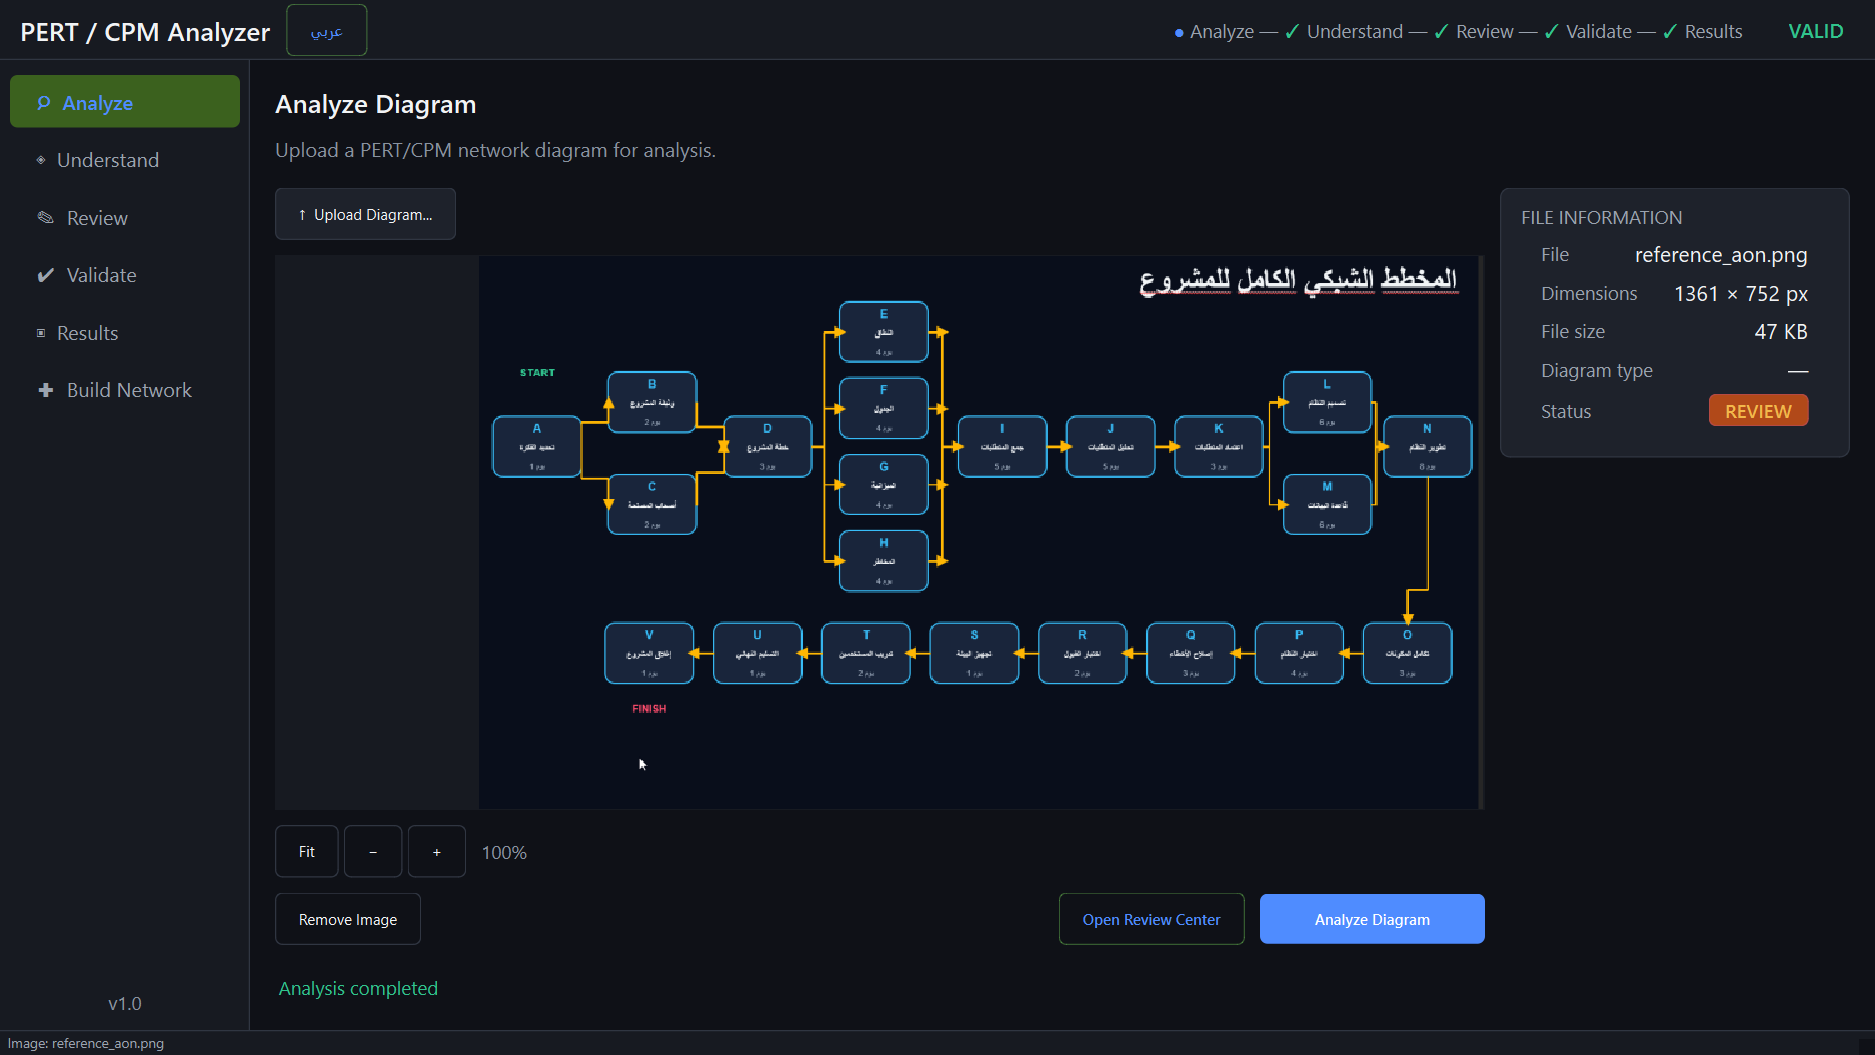
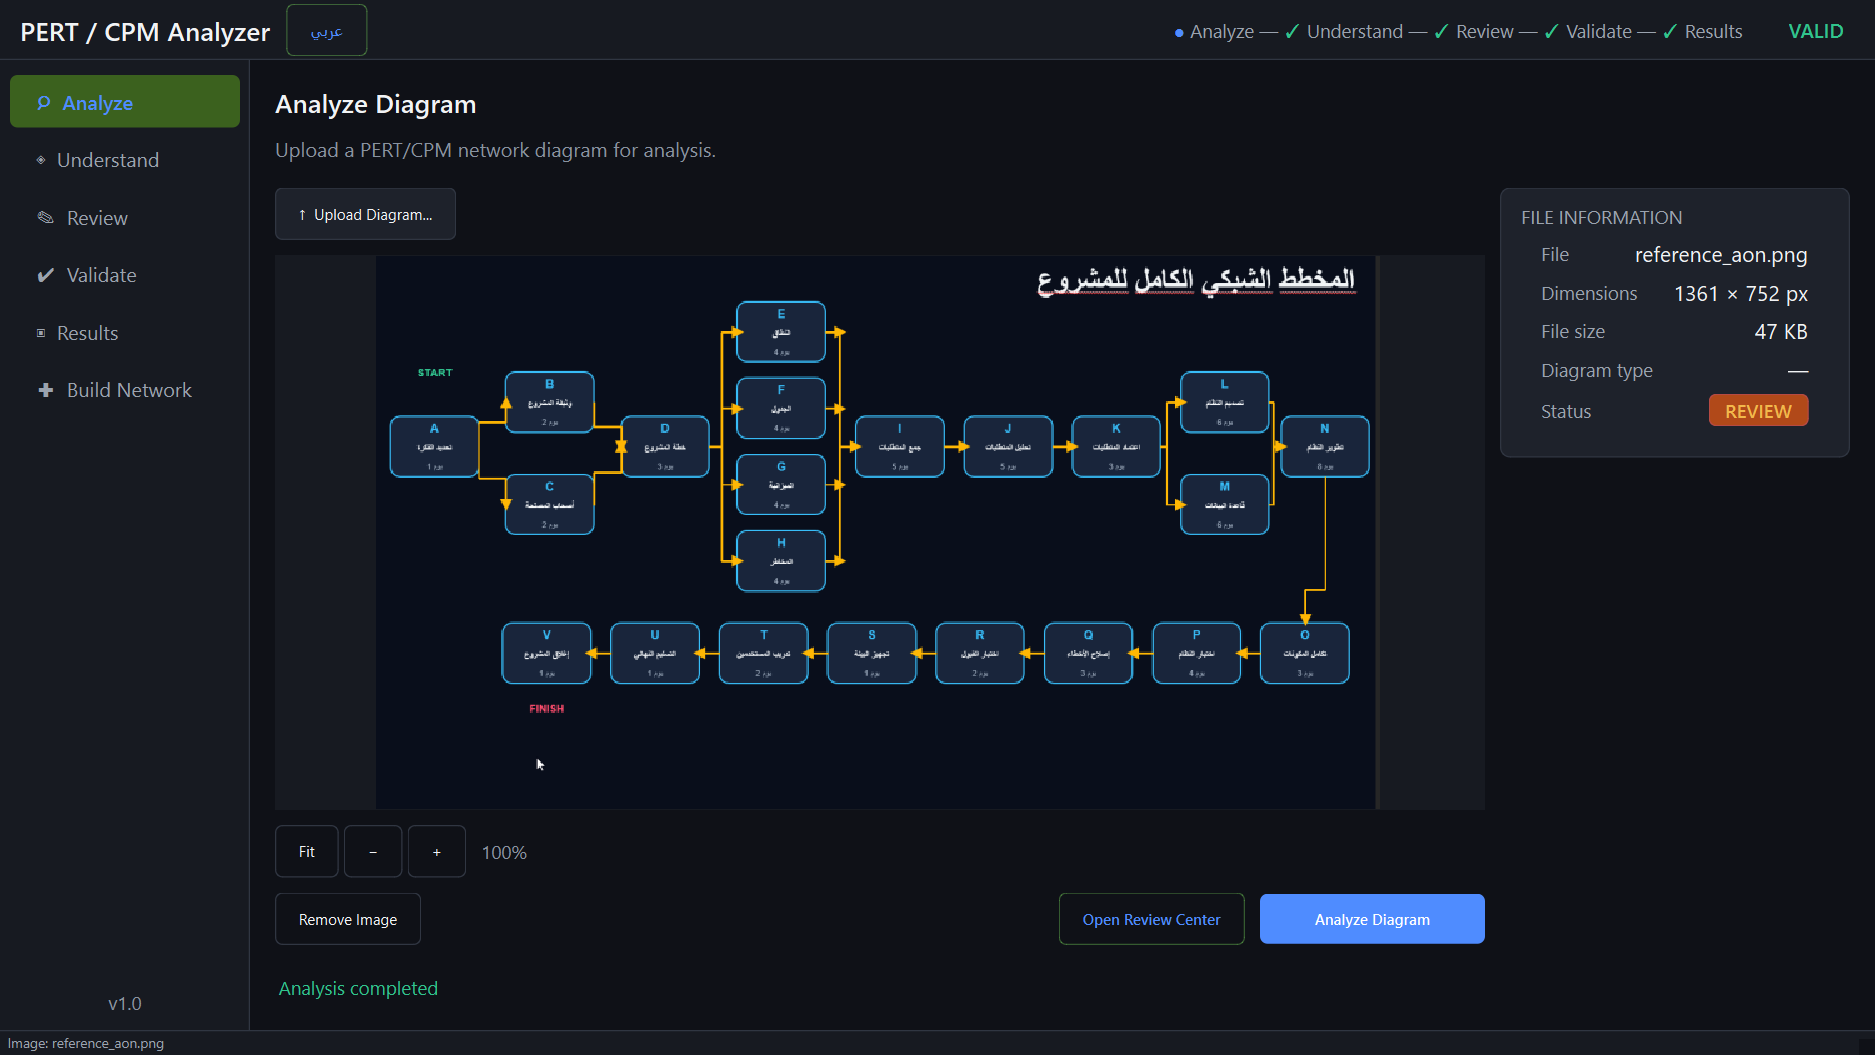
batch A-3: analysis stays on its page (no auto-jump) + image truly centred (clamp double-centre fix, pins updated)

Changed region(s): [[0.1856, 0.273, 0.8043, 0.6976], [0.5568, 0.2427, 0.7733, 0.3033], [0.3403, 0.6673, 0.3712, 0.6976]]

diff --git a/tests/gui/test_gui_state_flow.py b/tests/gui/test_gui_state_flow.py
@@ -1,5 +1,5 @@
 """
-Tests for session updates, auto-navigation, and responsiveness.
+Tests for session updates, stay-on-analyze navigation, and responsiveness.
 """
 
 from __future__ import annotations
@@ -52,9 +52,10 @@ def test_session_updates_after_analysis(
     assert window._session.review_summary["duration_reviews_pending"] == 1
 
 
-def test_auto_nav_to_review_when_review_items(
+def test_user_stays_on_analyze_when_review_items(
     window: MainWindow, tmp_image: str, qapp: "QApplication"  # noqa: F821
 ) -> None:
+    """Analysis must NOT auto-jump: the user stays to watch the machine."""
     wf = FakeWorkflow(pa=1, pd=0, pdr=0, review_required=True)
     window._backend = FakeBackend(workflow=wf)
     window._analysis_page.load_image(tmp_image)
@@ -64,12 +65,14 @@ def test_auto_nav_to_review_when_review_items(
         qapp.processEvents()
         time.sleep(0.01)
 
-    assert window._stack.currentIndex() == NavDestination.REVIEW.value
+    assert window._stack.currentIndex() == NavDestination.ANALYZE.value
+    assert window._session.state == AppState.REVIEW_REQUIRED
 
 
-def test_auto_nav_to_validation_when_no_review_items(
+def test_user_stays_on_analyze_when_no_review_items(
     window: MainWindow, tmp_image: str, qapp: "QApplication"  # noqa: F821
 ) -> None:
+    """Same stay-on-analyze rule when validation is the next step."""
     wf = FakeWorkflow(pa=0, pd=0, pdr=0, review_required=False)
     window._backend = FakeBackend(workflow=wf)
     window._analysis_page.load_image(tmp_image)
@@ -79,7 +82,7 @@ def test_auto_nav_to_validation_when_no_review_items(
         qapp.processEvents()
         time.sleep(0.01)
 
-    assert window._stack.currentIndex() == NavDestination.VALIDATE.value
+    assert window._stack.currentIndex() == NavDestination.ANALYZE.value
     assert window._session.state == AppState.VALIDATION_REQUIRED
 
 

diff --git a/pert_analyzer/gui/pages/analysis_page.py b/pert_analyzer/gui/pages/analysis_page.py
@@ -334,14 +334,21 @@ class ImageView(QLabel):
             return
         view_w, view_h = max(1, self.width()), max(1, self.height())
         disp_w, disp_h = self._content_size()
+        # The paint formula already centres fitting content:
+        #   x = (view - disp) / 2 + pan
+        # so when the image fits, pan must sit at 0.  Forcing pan to
+        # (view - disp) / 2 here double-centres and shoves the image
+        # toward one edge (the off-centre bug on Analyze).
         slip_x = disp_w - view_w
         slip_y = disp_h - view_h
-        lo_x, hi_x = -max(0, slip_x / 2), max(0, slip_x / 2)
-        lo_y, hi_y = -max(0, slip_y / 2), max(0, slip_y / 2)
         if disp_w <= view_w:
-            lo_x = hi_x = int(round((view_w - disp_w) / 2))
+            lo_x = hi_x = 0
+        else:
+            lo_x, hi_x = -slip_x / 2, slip_x / 2
         if disp_h <= view_h:
-            lo_y = hi_y = int(round((view_h - disp_h) / 2))
+            lo_y = hi_y = 0
+        else:
+            lo_y, hi_y = -slip_y / 2, slip_y / 2
         self._pan.setX(max(int(lo_x), min(int(hi_x), self._pan.x())))
         self._pan.setY(max(int(lo_y), min(int(hi_y), self._pan.y())))
 

diff --git a/pert_analyzer/gui/main_window.py b/pert_analyzer/gui/main_window.py
@@ -562,11 +562,9 @@ class MainWindow(QMainWindow):
         self._refresh_pages()
         self.statusBar().showMessage(f"Analysis completed: {state.value}")
 
-        if state == AppState.REVIEW_REQUIRED:
-            self._on_nav(NavDestination.REVIEW)
-        elif state == AppState.VALIDATION_REQUIRED:
-            self._on_nav(NavDestination.VALIDATE)
-
+        # The user asked to stay on the Analyze page and watch the
+        # processing machine wind down — navigation to Review/Validation
+        # stays manual (sidebar, Open Review Center button).
         logger.info("Analysis completed: state=%s", state.value)
 
     def _on_analysis_failed(self, msg: str) -> None:
